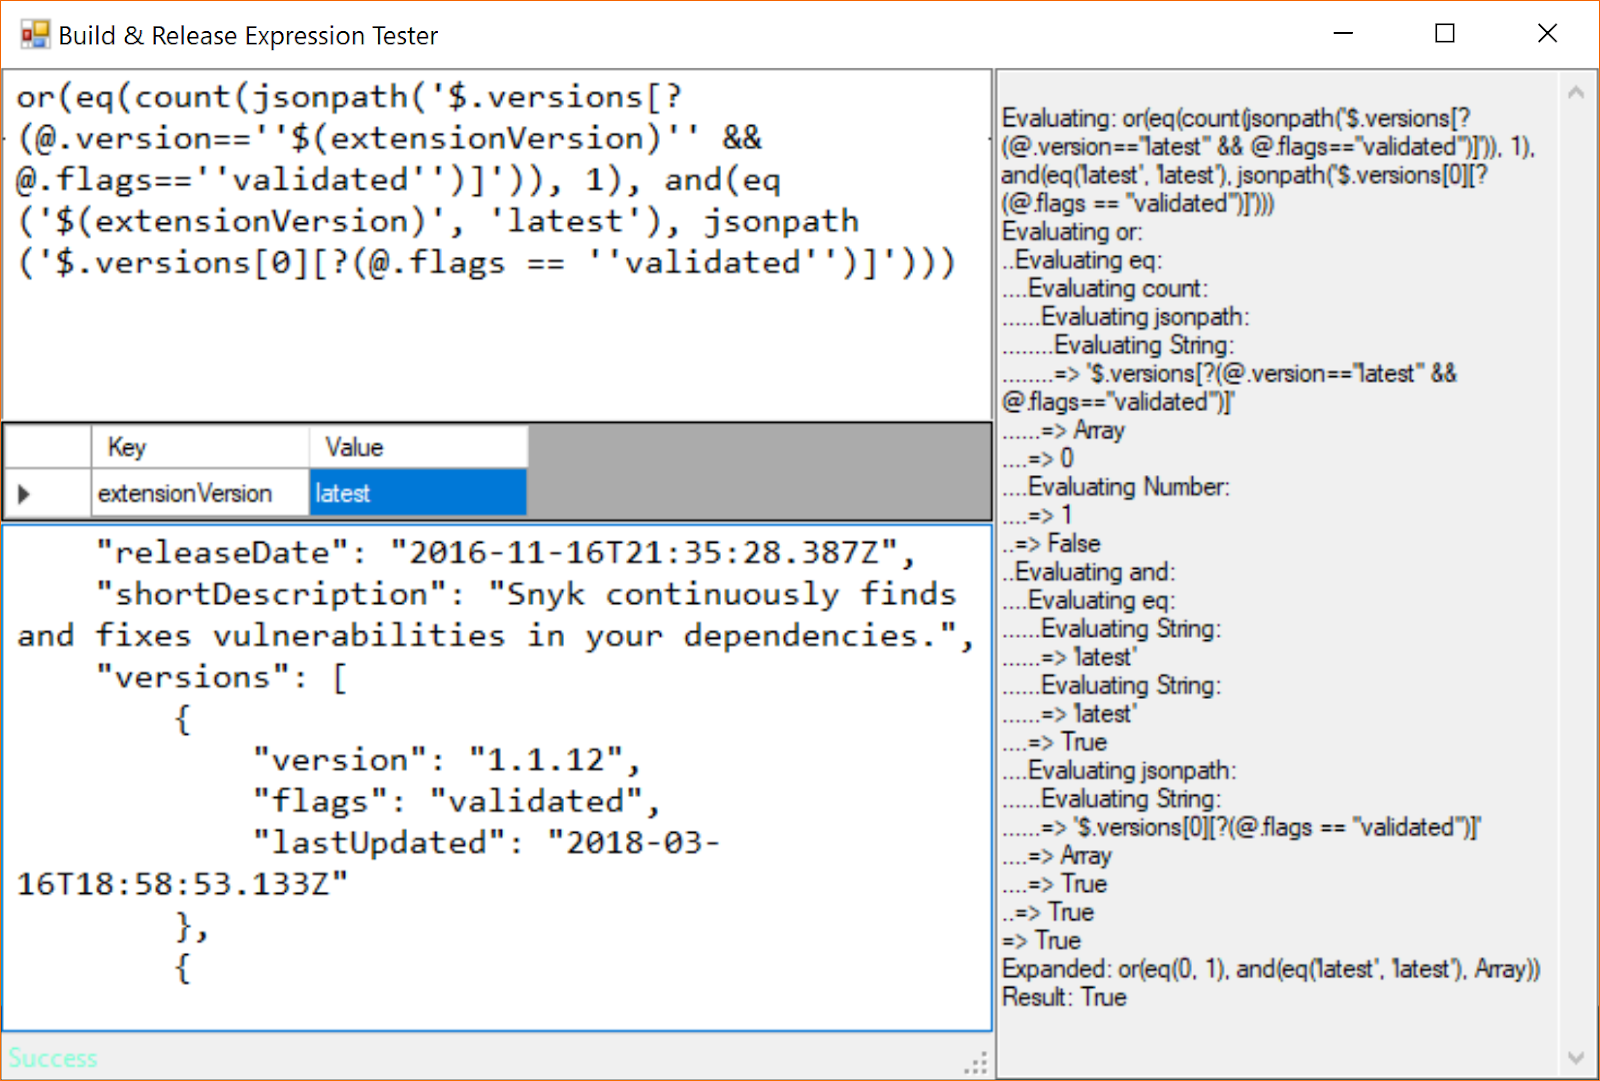
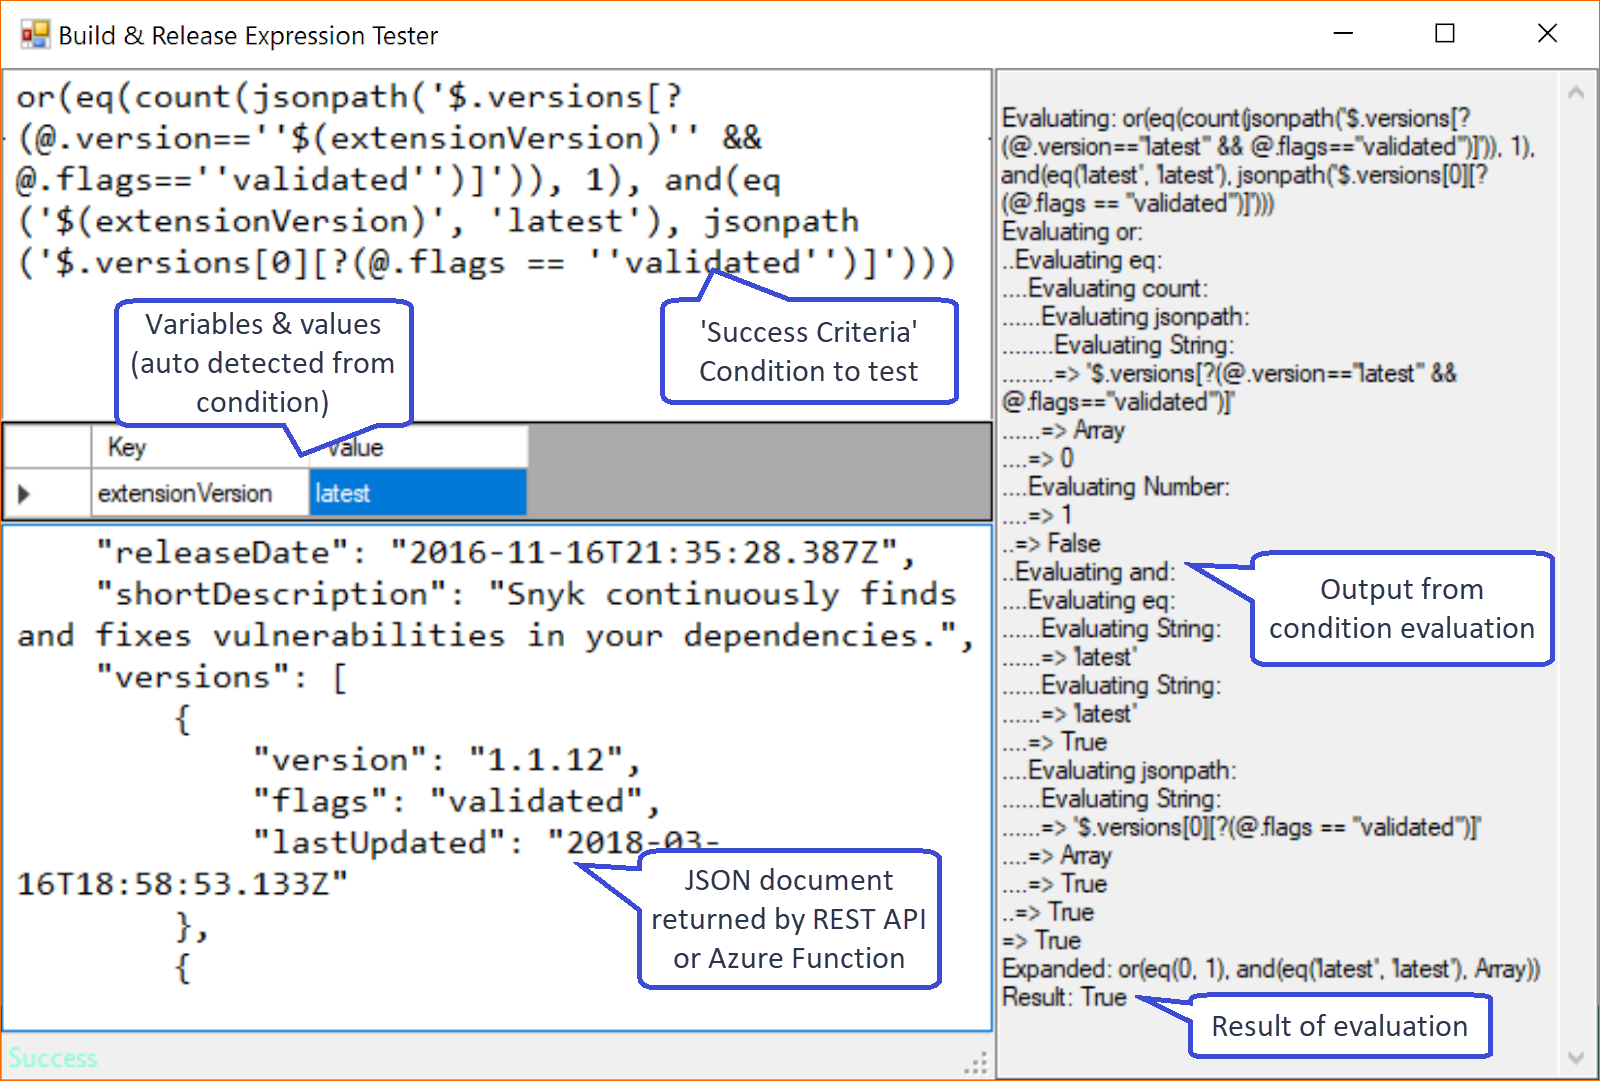
Improves marketplace presence

Changed region(s): [[0.0, 0.0611, 1.0, 1.0], [0.0, 0.6716, 0.5938, 0.9158]]

diff --git a/README.md b/README.md
@@ -1,8 +1,14 @@
 # Azure Pipelines Gate Condition Editor
 
-Simple UI tool to test expressions for Server and ServerGate success expressions.
+Ever wondered what to put in the Success Criteria field?
 
-![Screenshot](/screenshot.png?raw=true "Screenshot")
+![What to put here?](./what-here.png?raw=true "Screenshot")
+
+Or queued 182 releases to debug the Success Criteria Condition? This little tool will help you locally evaluate your condition syntax in seconds instead of minutes or hours.
+
+![Screenshot](./screenshot.png?raw=true "Screenshot")
+
+# Prerequisites
 
 To run you must have one of the following prerequisites installed:
 

diff --git a/overview.md b/overview.md
@@ -1,6 +1,12 @@
-Simple UI tool to test expressions for Server and ServerGate success expressions.
+Ever wondered what to put in the Success Criteria field?
 
-![Screenshot](/screenshot.png)
+![What to put here?](what-here.png)
+
+Or queued 182 releases to debug the Success Criteria Condition? This little tool will help you locally evaluate your condition syntax in seconds instead of minutes or hours.
+
+![Screenshot](screenshot.png)
+
+# Prerequisites
 
 To run you must have one of the following prerequisites installed:
 
